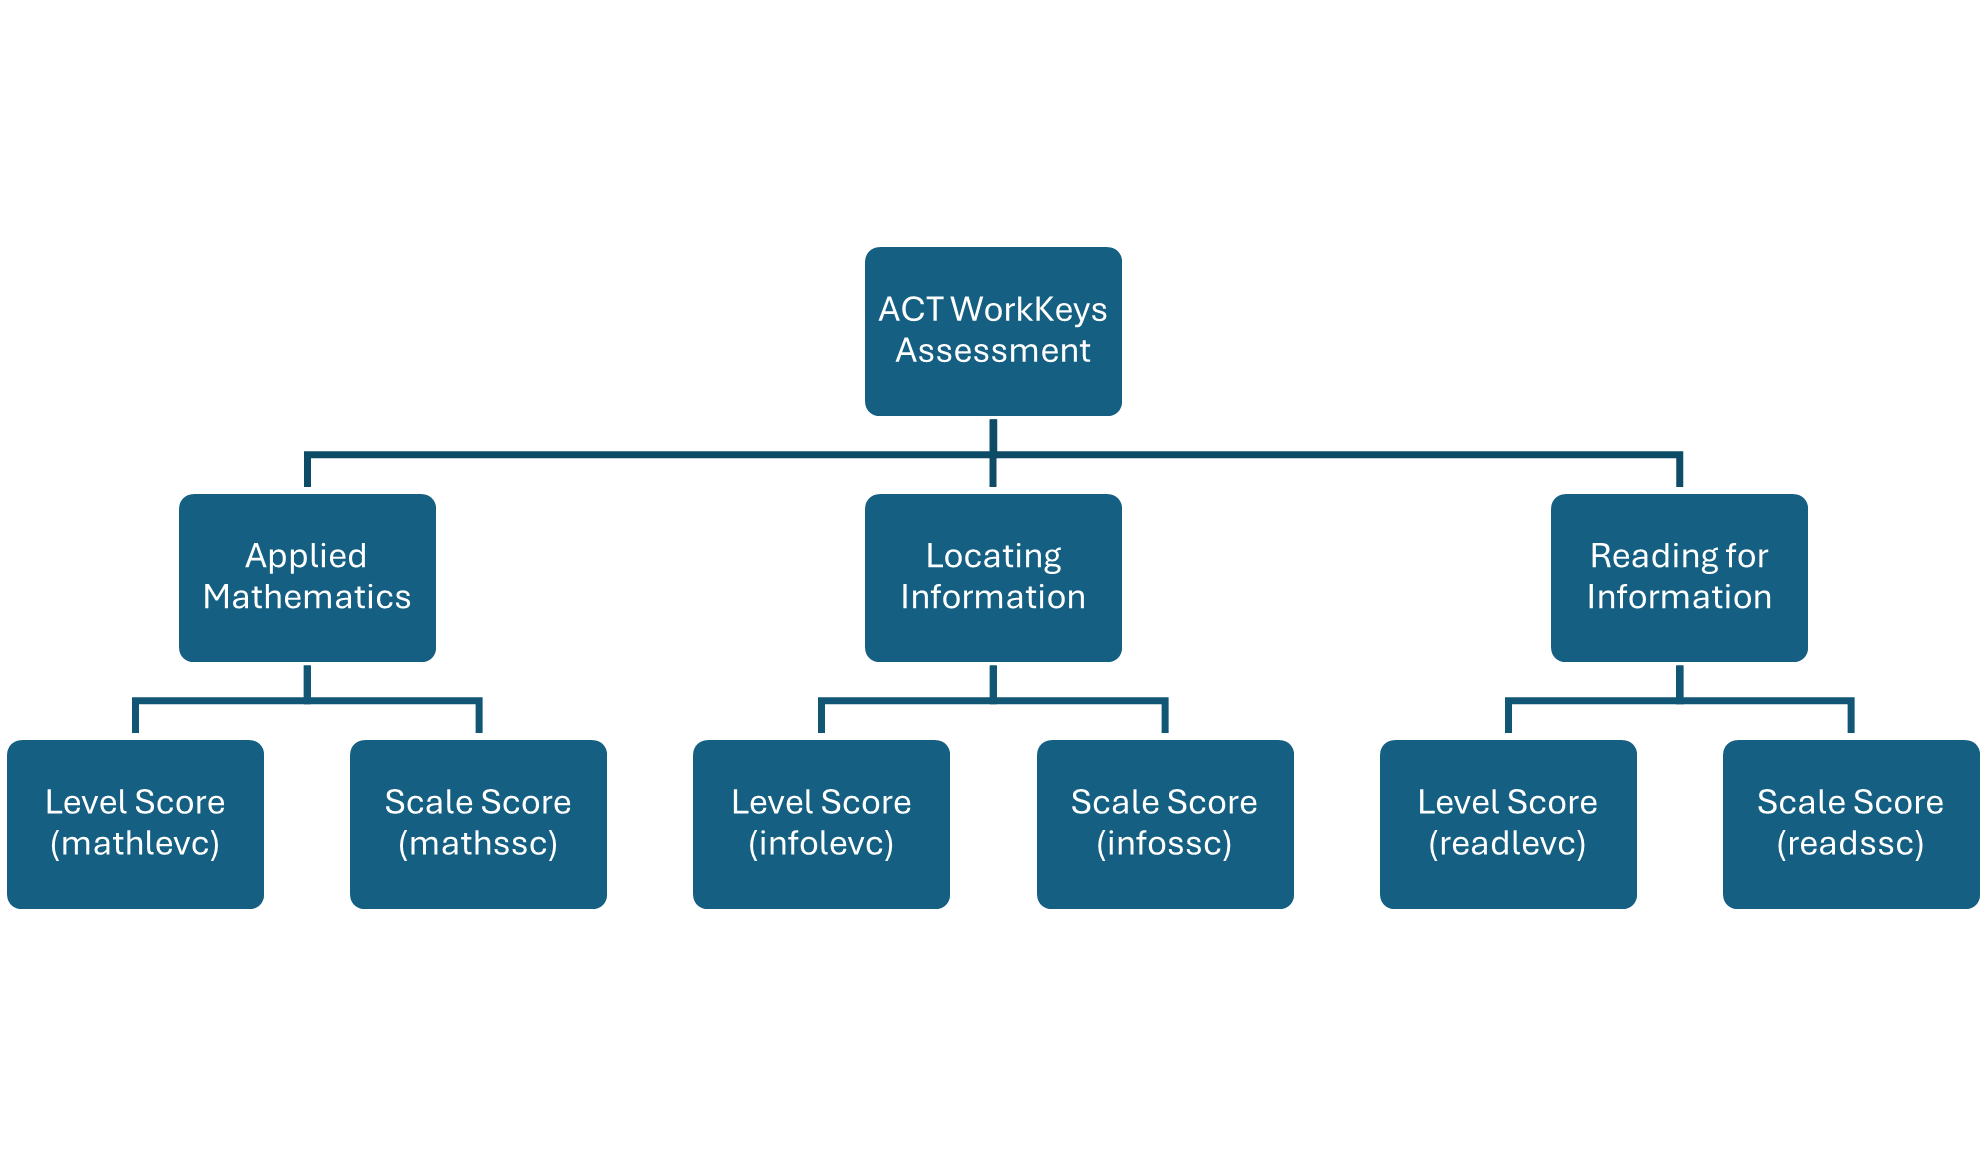
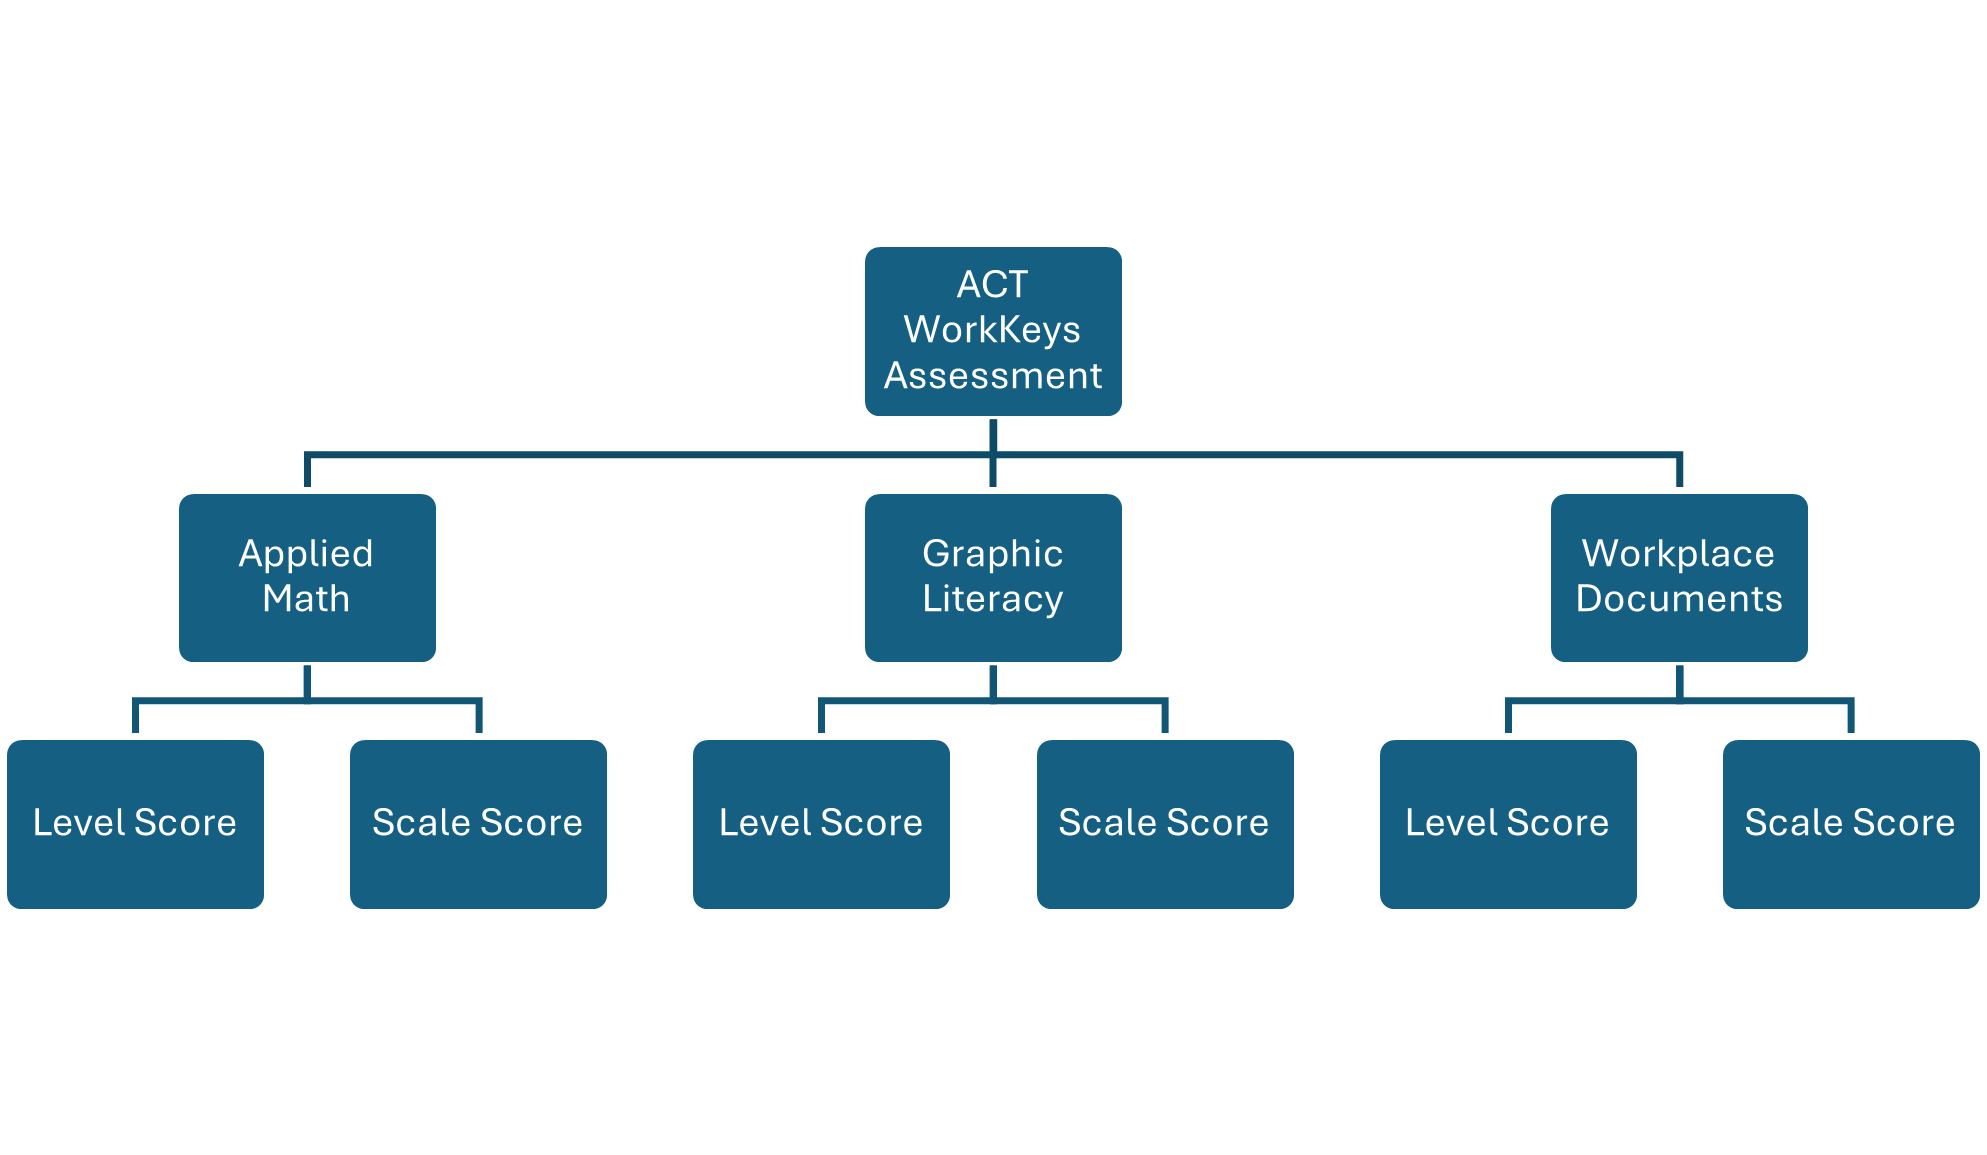
Updated the documentation.

diff --git a/assessments/ACTWorkKeys/mapping.md b/assessments/ACTWorkKeys/mapping.md
@@ -4,12 +4,12 @@
 ## Assessments Identifiers
 - Each ACTWorkKeys assessment component is mapped to a unique Assessment file.
 - Assessment Identifiers:
-  - Workkeys_AM: Applied Mathematics
-  - Workkeys_LI: Locating Information
-  - Workkeys_RI: Reading for Information
+  - WorkKeys Applied Math
+  - WorkKeys Graphic Literacy
+  - WorkKeys Workplace Documents
 
 ## Assessment Family
-ACT
+ACTWorkKeys
 
 ## Assessments Score Method Descriptors
 For each assessment there will be two score method descriptors:
@@ -25,27 +25,25 @@ The ACT WorkKeys Assessment is administered to measure foundational career readi
 
 This assessment supports instructional and accountability goals by providing reliable, standardized data that informs educational planning, workforce alignment, and credentialing decisions. The results can be used to help students identify career pathways, assist educators in tailoring instruction, and help employers evaluate workforce preparedness.
 
-This bundle processes ACT WorkKeys assessment data, transforming it into Ed-Fi compatible assessment and student assessment records. The bundle handles multiple ACTWorkKeys assessments including Applied Mathematics, Locating Information, and Reading for Information. (There are differences between the name of the assessments on the ACT website and the documentation provided. The website displays 3 types of assessments with these names: Applied Math, Workplace Documents and Graphic Literacy. Which are the correct ones?)
+This bundle processes ACT WorkKeys assessment data, transforming it into Ed-Fi compatible assessment and student assessment records. The bundle handles multiple ACTWorkKeys assessments including Applied Math, Workplace Documents and Graphic Literacy.
 
 # Data Sources
 
 ## Input Requirements
 - Primary source file containing student ACTWorkKeys assessment data with the following required columns:
-  - stateid: student unique identifier.
-  - testdate: Assessment administration date
-  - Assessment scores:
-    - mathlevc: Applied Mathematics Level Score 
-    - mathssc: Applied Mathematics Scale Score
-    - infolevc: Locating Information Level Score
-    - infossc: Locating Information Scale Score
-    - readlevc: Reading for Information Level Score
-    - readssc: Reading for Information Scale Score
+  - Examinee ID: student unique identifier.
+  - Test Date: assessment administration date
+  - Manifest Name: assessment identifier
+  - For each assessment, there are two columns with the scores:
+    - Level Score 
+    - Scale Score
 
 ## Bundle Seeds
+- academicSubjectDescriptors.csv: Contains academic subject descriptors
 - assessments.csv: Contains assessment metadata
 - assessmentReportingMethodDescriptors.csv: Contains assessment reporting methods
 - assessmentCategoryDescriptors.csv: Contains category descriptors
-- gradeLevelDescriptors.csv: Contains grade level descriptors
+- gradeLevelMapping.csv: Contains grade level descriptors
 
 # Ed-Fi Mapping
 This bundle produces the following Ed-Fi resources:
@@ -58,20 +56,19 @@ This bundle produces the following Ed-Fi resources:
 - studentReference: Mapped from stateid
 - scoreResults:
   - assessmentReportingMethodDescriptor: Mapped from descriptor source
-  - resultDatatypeTypeDescriptor: Set to "Integer"
+  - resultDatatypeTypeDescriptor: Set to "Integer" for scale scores, and "Level" for level score
   - result: Mapped from corresponding assessment score column
 
 ## Summary of Descriptor Fields and Mappings
 
 ### academicSubjectDescriptor:
-- Mathematics: **Namespace**: `uri://ed.sc.gov/AcademicSubjectDescriptor#Mathematics`
-- Graphic Literacy: **Namespace**:   ???
-- Language Arts: **Namespace**: `uri://ed.sc.gov/AcademicSubjectDescriptor#Language Arts`
+- Mathematics: **Namespace**: `uri://ed-fi.org/AcademicSubjectDescriptor#Mathematics`
+- Literacy: **Namespace**: `uri://ed-fi.org/AcademicSubjectDescriptor#Literacy` (To be added?)
+- Documents: **Namespace**: `uri://ed-fi.org/AcademicSubjectDescriptor#Documents` (To be added?)
 
 ### gradeLevelDescriptor: 
-The documentation has 2 columns regarding education level. edlevP if source is WKPP
-edlevO if sourse is WKIV with these possible vales:
-- edlevP, level of education when testing method is WKPP. Should be one of them: 
+The documentation has 2 columns regarding education level, depending of the value of "WorkKeys Source" there will be these possible values:
+- When testing method is WKPP (WorkKeys Paper and Pencil). Should be one of them: 
   - 1 = 7th Grade
   - 2 = 8th Grade   
   - 3 = 9th Grade   
@@ -88,8 +85,7 @@ edlevO if sourse is WKIV with these possible vales:
   - 14 = 5th Year or Higher Post.
   - 15 = Other Postsecondary
   
-  
-- edlevO, level of education when testing method is WKIV. Should be one of them: 
+- When testing method is WKIV (WorkKeys Internet Version (Online)). Should be one of them: 
   - 8th Grade or below
   - 9th Grade
   - 10th Grade
@@ -105,40 +101,25 @@ edlevO if sourse is WKIV with these possible vales:
   - Postsecondary-4-Year Institutions: Senior
   - Postsecondary-4-Year Institutions: Postgraduate
 
-It will need a crosswalk file to map them.
-
 
 ### assessmentCategoryDescriptor:
-- **Namespace**: `uri://ed.sc.gov/AssessmentCategoryDescriptor#HS_CAREER_COLLEGE`
+- **Namespace**: `uri://act.org/AssessmentCategoryDescriptor#HS_CAREER_COLLEGE`
 
 ### assessmentReportingMethodDescriptor:
-- **Namespace**: `uri://ed.sc.gov/AssessmentReportingMethodDescriptor#Scale Score`
-- **Namespace**: `uri://ed.sc.gov/AssessmentReportingMethodDescriptor#Level Score`
+- **Namespace**: `uri://act.org/AssessmentReportingMethodDescriptor#Scale Score`
+- **Namespace**: `uri://act.org/AssessmentReportingMethodDescriptor#Level Score`
 
 ### resultDatatypeTypeDescriptor:
 - **Namespace**: `uri://ed-fi.org/ResultDatatypeTypeDescriptor#Integer`
+- **Namespace**: `uri://ed-fi.org/ResultDatatypeTypeDescriptor#Level`
 
+### assessmentPlatformTypeDescriptors:
+- **Namespace**: `uri://act.org/PlatformTypeDescriptor#WKPP`
+- **Namespace**: `uri://act.org/PlatformTypeDescriptor#WKIV`
 
-# Transformations
-
-## Assessments:
-Prepares assessment metadata by joining assessment information with grade level and reporting method descriptors.
-
-## Students Assessments:
-Three parallel transformations, one for each ACTWorkkeys assessment component:
-- student_assessment_am
-- student_assessment_li
-- student_assessment_ri
-
-Each transformation:
-1. Adds specific assessmentIdentifier
-2. Maps student identifiers
-3. Adds assessment administration metadata
-4. Generates unique studentAssessmentIdentifier
-5. Joins with reporting method descriptors
-6. Creates score JSON structure
-
-All of them combined in one output file.
+### accommodationDescriptors:
+There are cases where the "Manifest Name" (assessment) has the text " - Text To Speech" next to the assessment's name.
+- **Namespace**: `uri://act.org/accommodationDescriptors#Test administration accommodation`
 
 # Output Files
 
@@ -147,13 +128,12 @@ All of them combined in one output file.
 - assessments.jsonl
 - studentAssessmentEducationOrganizationAssociations.jsonl
 - student_assessments.jsonl
+- assessmentPlatformTypeDescriptors.jsonl
 
 # Dependencies
 - Requires Earthmover version 0.3.8 or higher
 - Requires template files:
   - ./templates/assessments.jsont
-  - ./templates/assessmentReportingMethodDescriptors.jsont
-  - ./templates/assessmentCategoryDescriptors.jsont
   - ./templates/descriptors.jsont
   - ./templates/studentAssessments.jsont
   - ./templates/studentAssessmentEducationOrganizationAssociations.jsont

diff --git a/assessments/ACTWorkKeys/README.md b/assessments/ACTWorkKeys/README.md
@@ -4,7 +4,7 @@
 * **Submitter name**: Mariela Suárez
 * **Submitter organization**: Crocus LLC
   
-To run this bundle, please add your own source file<code>data/ACTWorkKeys_SAMPLE_data_file.csv</code>
+To run this bundle, please add your own source file<code>data/ACTWorkKeys_sample_anonymized_file.csv</code>
 
 This bundle works with ACTWorkKeys files in the format provided by the assessment vendor. For details about the mapping look at the [mapping document](./mapping.md) found here.
 
@@ -13,8 +13,8 @@ This bundle works with ACTWorkKeys files in the format provided by the assessmen
 ### Required
 - **OUTPUT_DIR**: Where output files will be written.
 - **INPUT_FILE**: The assessment file to be mapped
-- **STUDENT_ID_NAME**: Which column to use as the Ed-Fi `studentUniqueId`. Can be this column in the assessment file: `stateid` when the bundle is run directly. Otherwise leave the default value `edFi_studentUniqueID`. 
-- **POSSIBLE_STUDENT_ID_COLUMNS**: This should contain all the possible native student id columns in the assessment file (e.g., `stateid`). 
+- **STUDENT_ID_NAME**: Which column to use as the Ed-Fi `studentUniqueId`. Can be this column in the assessment file: `Examinee ID` when the bundle is run directly. Otherwise leave the default value `edFi_studentUniqueID`. 
+- **POSSIBLE_STUDENT_ID_COLUMNS**: This should contain all the possible native student id columns in the assessment file (e.g., `Examinee ID`). 
 ### Optional
 - **DESCRIPTOR_NAMESPACE**: This should be the default namespace for descriptors such as ResultDatatypeTypeDescriptor. The default value is: uri://ed-fi.org.
 
@@ -23,9 +23,9 @@ This bundle works with ACTWorkKeys files in the format provided by the assessmen
 Run the following command:
 ```bash
 earthmover run -c ./earthmover.yaml -p '{
-  "INPUT_FILE": "path/to/ACTWorkKeys_data_file.csv",
+  "INPUT_FILE": "path/to/ACTWorkKeys_sample_anonymized_file.csv",
   "OUTPUT_DIR": "./output",
-  "STUDENT_ID_NAME": "stateid"
+  "STUDENT_ID_NAME": "Examinee ID"
 }'
 ```
 
@@ -33,7 +33,6 @@ Once you have inspected the output JSONL for issues, check the settings in light
 
 ```bash
 lightbeam validate+send -c ./lightbeam.yaml -p '{
-  "STATE_DIR": "~/.lightbeam/",
   "DATA_DIR": "./output/",
   "API_YEAR": "yourAPIYear",
   "BASE_URL": "yourURL",
